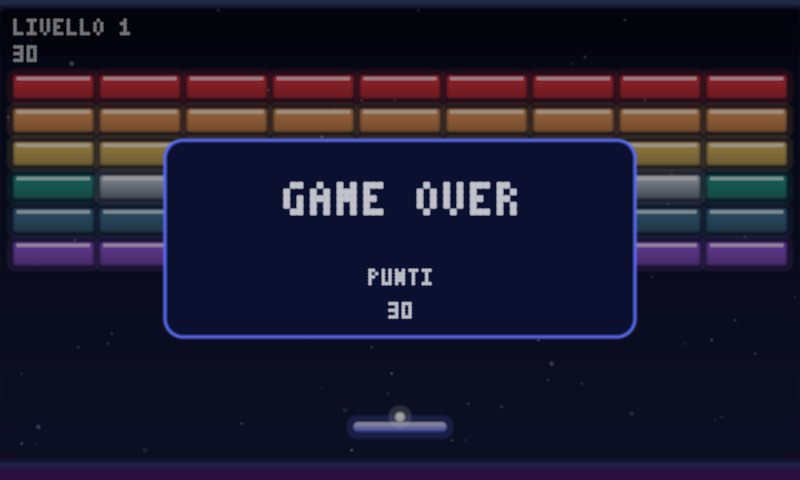
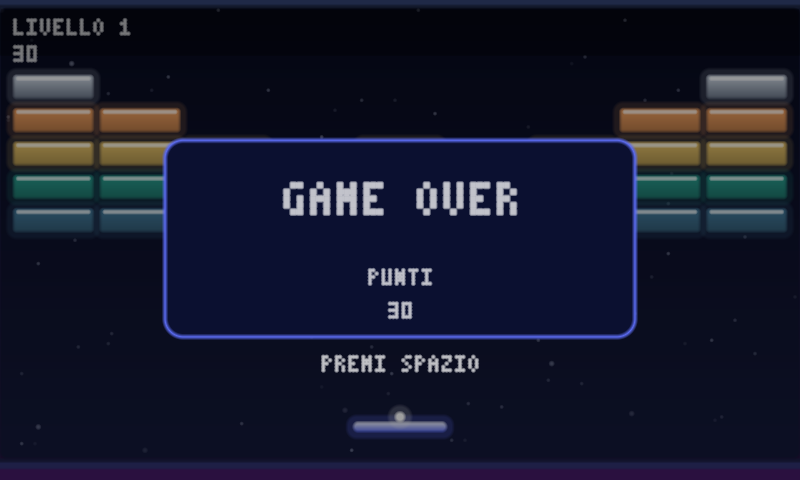
Wilkanoid v2: round 5 fixes (W level 1, win prompt and bonus, bomb fuse, wide paddle blink)
Claude-Session: https://claude.ai/code/session_01AVhvvKEf1rvKF1AvUztBjZ

diff --git a/games/wilkanoid/src/lib.rs b/games/wilkanoid/src/lib.rs
@@ -55,7 +55,7 @@ pub const DROP_MULTI: u8 = 1;
 
 /// Livelli: '0' vuoto, '1' normale, '2' acciaio (due colpi), '4' esplosivo.
 pub const LEVELS: [[&[u8; COLS]; ROWS]; 6] = [
-    [b"111111111", b"111111111", b"111111111", b"121111121", b"111111111", b"111111111"],
+    [b"200000002", b"110000011", b"111010111", b"111111111", b"111111111", b"000000000"],
     [b"000020000", b"000111000", b"001111100", b"011141110", b"111111111", b"101010101"],
     [b"222022022", b"111111111", b"202020202", b"111111111", b"222222222", b"010101010"],
     [b"000020000", b"000222000", b"002242200", b"022222220", b"222222222", b"022222220"],
@@ -145,6 +145,8 @@ pub struct Game {
     /// Tick del tutorial al primo livello (si ferma a `TUT_TICKS`).
     pub tut: u32,
     timer: u32,
+    /// Contatore di animazione (ticks di gioco), per fusibili e lampeggi.
+    pub anim: u32,
     rng: u32,
 }
 
@@ -169,6 +171,7 @@ impl Game {
             paused: false,
             tut: 0,
             timer: 0,
+            anim: 0,
             rng: seed | 1,
         };
         g.load(0);
@@ -331,6 +334,7 @@ impl Game {
     }
 
     fn play(&mut self) {
+        self.anim = self.anim.wrapping_add(1);
         if self.wide > 0 {
             self.wide -= 1;
         }
@@ -377,6 +381,7 @@ impl Game {
                 self.load(self.level + 1);
                 self.phase = Phase::Ready;
             } else {
+                self.score += self.lives as u32 * 500;
                 self.phase = Phase::Won;
             }
             return;

diff --git a/games/wilkanoid/src/render.rs b/games/wilkanoid/src/render.rs
@@ -338,6 +338,8 @@ pub fn render(g: &Game, px: &mut [u32], w: usize, h: usize) {
             }
             if k == BOMB {
                 c.disc(x + BW as f32 / 2.0, y + BH as f32 / 2.0, 1.4, 0xFFFFF3C4);
+                let r = if (g.anim / 6) % 2 == 0 { 2.2 } else { 1.2 };
+                c.disc(x + BW as f32 - 3.0, y - 2.0, r, 0xFFFFF3C4);
             }
             if k == CRACKED {
                 c.rr(x + 6.0, y + 1.0, x + 8.0, y + 4.0, 0.5, CRACK_LINE, CRACK_LINE);
@@ -373,7 +375,9 @@ pub fn render(g: &Game, px: &mut [u32], w: usize, h: usize) {
     let pad_x = g.paddle as f32 / sub;
     let (py0, py1) = (PAD_Y as f32, (PAD_Y + PAD_H) as f32);
     c.rr_a(pad_x - hw - 2.0, py0 - 2.0, pad_x + hw + 2.0, py1 + 2.0, 3.0, PAD_B, PAD_B, 0.3);
-    c.rr(pad_x - hw, py0, pad_x + hw, py1, 1.5, PAD_T, PAD_B);
+    let blink = g.wide > 0 && g.wide < 60 && (g.wide / 5) % 2 == 0;
+    let (pt, pb) = if blink { (0xFFFFFFFF, 0xFFFFFFFF) } else { (PAD_T, PAD_B) };
+    c.rr(pad_x - hw, py0, pad_x + hw, py1, 1.5, pt, pb);
 
     let mut buf = [0u8; 10];
     c.rr_a(-3.0, -3.0, pw + 3.0, 14.0, 0.5, 0xFF000000, 0xFF000000, 0.45);
@@ -432,6 +436,7 @@ pub fn render(g: &Game, px: &mut [u32], w: usize, h: usize) {
             c.text_c(b"PUNTI", 78.0, 1.0, TXT);
             let s = num(g.score, &mut buf);
             c.text_c(s, 88.0, 1.0, TXT);
+            c.text_c(b"PREMI SPAZIO", 104.0, 1.0, TXT);
         }
         _ => {}
     }
